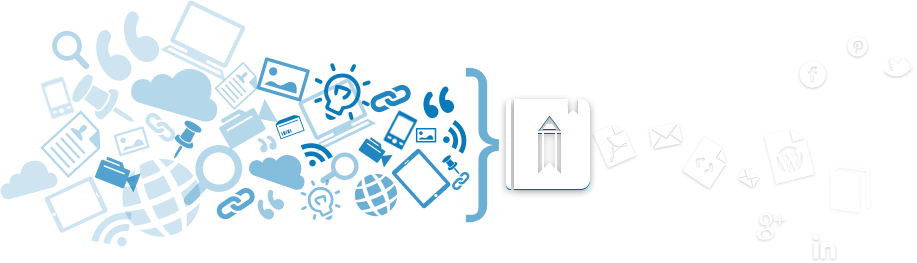
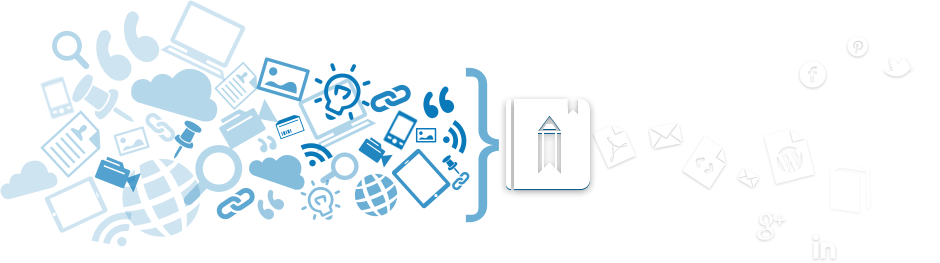
assi 7 rivision 1

diff --git a/Assignment_7/css/style.css b/Assignment_7/css/style.css
@@ -83,6 +83,7 @@ img{
 
 h1, h2{
 	font-family: 'ubuntubold';
+	font-weight: normal;
 }
 
 h1{	
@@ -93,7 +94,7 @@ h1{
 
 h2{
 	font-size: 36px;
-	line-height: 36px;
+	line-height: 38px;
 	color: #444444;
 }
 
@@ -136,7 +137,7 @@ h2{
 	border: 2px solid rgba(0, 0, 0, 0.9);
 	border-radius:15px;
 	box-shadow: inset 0 2px 1px rgba(255, 255, 255, 0.4);
-	text-shadow:0 -1px 1px rgba(0, 0, 0, 0.4);
+	text-shadow:0 -1px 0px rgba(0, 0, 0, 0.5);
 }
 
 .signinBtn{	
@@ -182,9 +183,9 @@ h2{
 }
 
 .banner .bannerImgWrap{
-	width: 917px;
+	width: 940px;
 	height: 290px;
-	background: url(../images/bannerVisualCopy.png) no-repeat left 31px;
+	background: url(../images/bannerVisualCopy.png) no-repeat;
 	margin-bottom: 11px;
 }
 
@@ -202,7 +203,7 @@ h2{
 	color: #ffffff;
 	line-height: 26px;
 	text-align: center;
-	text-shadow:1px 1px 1px rgba(0, 0, 0, 0.3);
+	text-shadow:1px 1px 1px rgba(0, 0, 0, 0.2);
 }
 
 .banner .text{
@@ -229,7 +230,7 @@ h2{
 	padding: 18px 0;
 	border: 2px solid #0976b5;
 	border-radius: 40px;
-	box-shadow: inset 0px 1px 1px rgba(255, 255, 255, 0.9), 0px 1px 6px rgba(0, 0, 0, 0.4);
+	box-shadow: inset 0px 1px 1px rgba(255, 255, 255, 0.9), 0px 2px 6px rgba(0, 0, 0, 0.2);
 	float: none;
 }
 
@@ -350,7 +351,6 @@ h2{
 }
 
 .Ideacontent-signUpwrap .SignUpContent .terms{
-	display: block;
 	padding:0 5px;
 	margin-bottom: 20px;
 	font-family: arial;
@@ -376,7 +376,8 @@ h2{
 	font-family: arial;
 	font-size: 15px;
 	font-weight: bold;
-	line-height: 36px
+	line-height: 36px;
+	cursor:pointer;
 }
 
 .ShareistFaqs{
@@ -406,8 +407,8 @@ h2{
 }
 
 .ShareistFaqs ul li .icon{
-	width: 60px;
-	height: 60px;
+	width: 55px;
+	height: 55px;
 	float: left;
 	margin-right: 20px;
 	background-position: center center; 

diff --git a/Assignment_7/index.html b/Assignment_7/index.html
@@ -23,9 +23,7 @@
 			</div>
 			<div class="bannerPunchLine">
 				<span class="text">
-					<span class="boldText">Ideas</span> come to us anywhere, anytime.
-				</span>
-				<span class="text">
+					<span class="boldText">Ideas</span> come to us anywhere, anytime.<br/>
 					Now <span class="boldText">Capture</span> your <span class="boldText">Ideas</span> and turn them into great content.
 				</span>
 			</div>
@@ -55,12 +53,12 @@
 				<div class="orText">OR</div>
 			</div>
 			<form>
+				<input type="text" placeholder="Enter your Name" />
 				<input type="text" placeholder="Enter your email address" />
-				<input type="text" placeholder="Enter your email address" />
-				<input type="text" placeholder="Enter your email address" />
+				<input type="text" placeholder="Enter your Contact Number" />
 			</form>
-			<span class="terms">Important: by clicking the button below, you agree to the <a href="#">terms of service.</a></span>
-			<a href="#" class="signUpBtn">SIGNUP NOW!</a>
+			<div class="terms">Important: by clicking the button below, you agree to the <a href="#">terms of service.</a></div>
+			<button class="signUpBtn">SIGNUP NOW!</button>
 		</div>
 		<div class="clear"></div>
 	</div><!--content1-->
